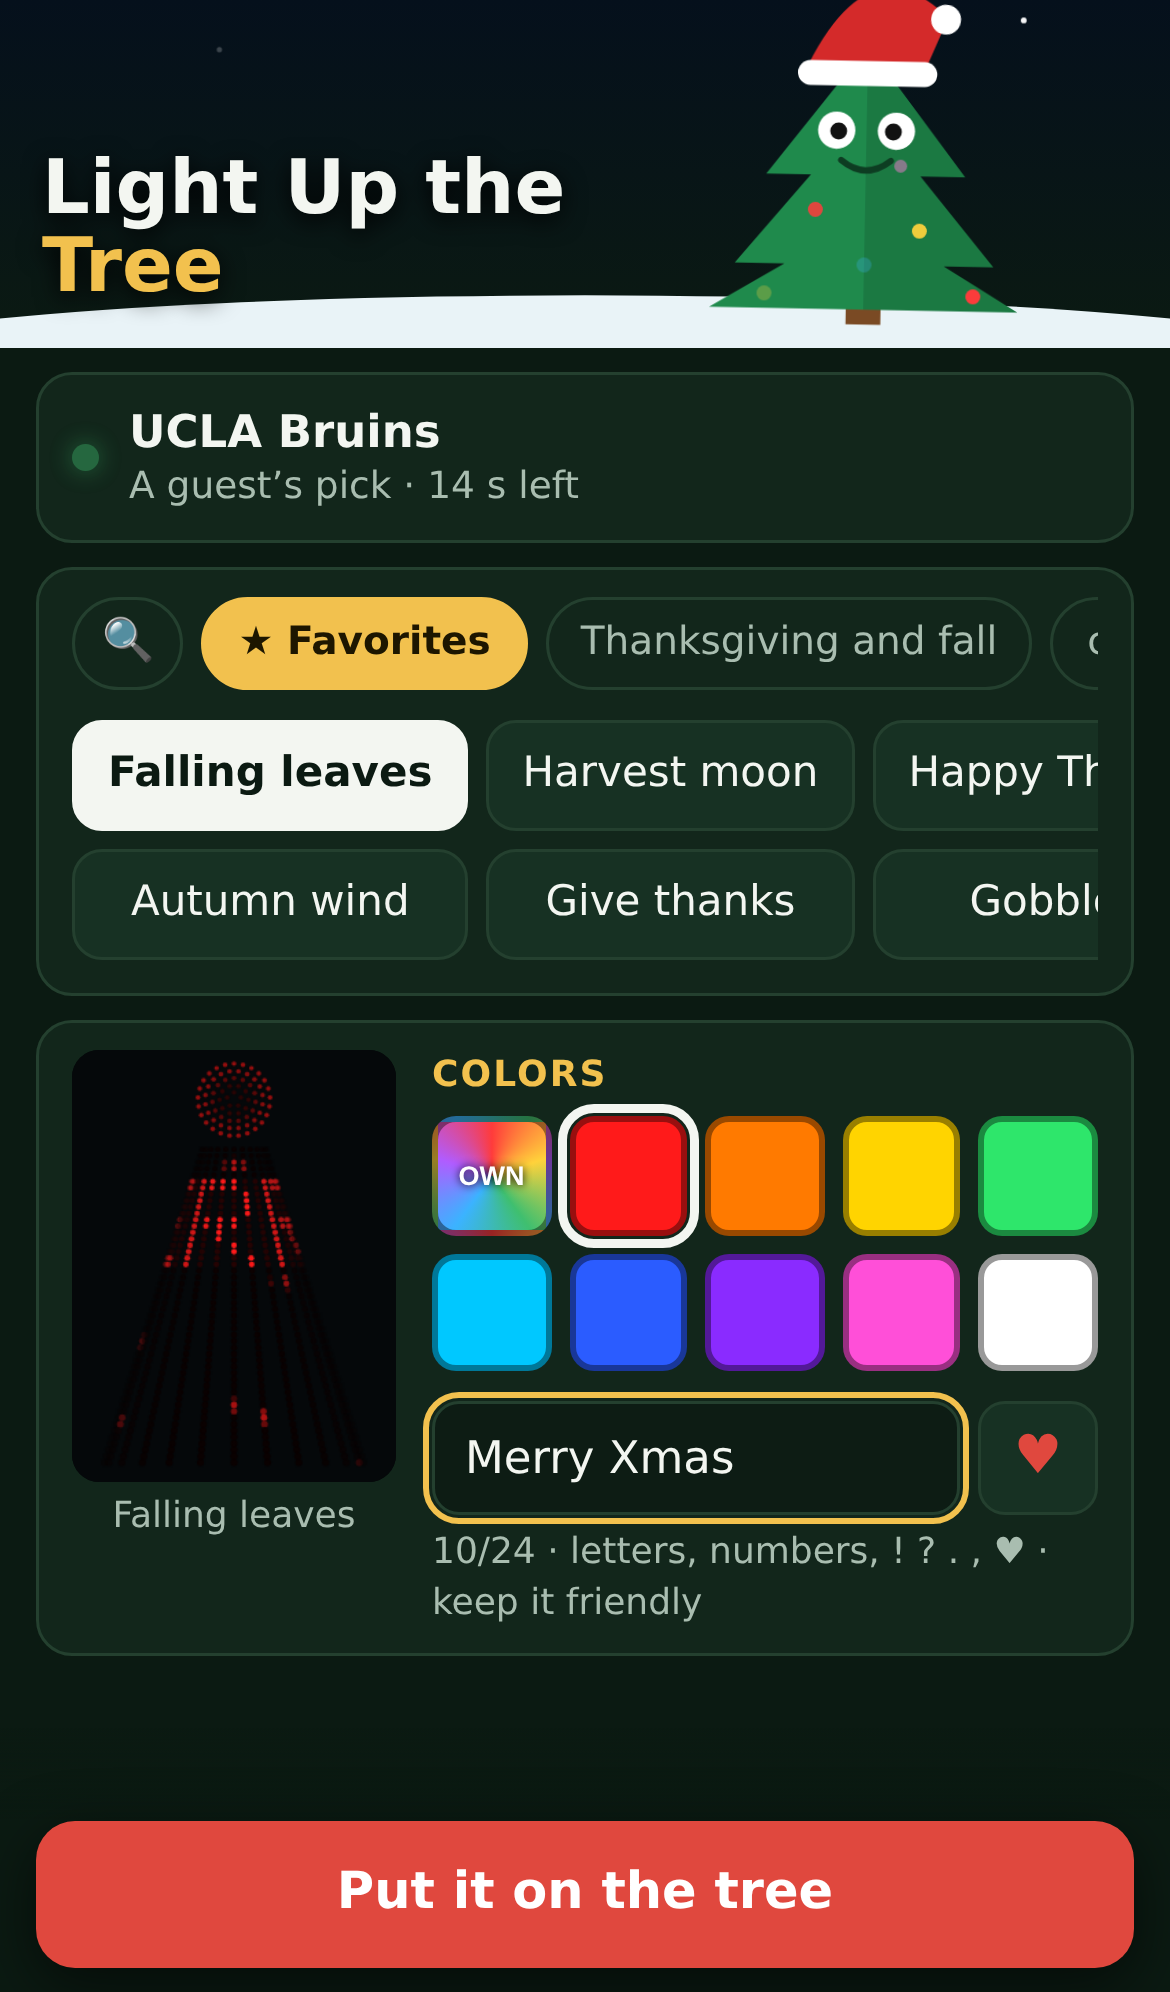
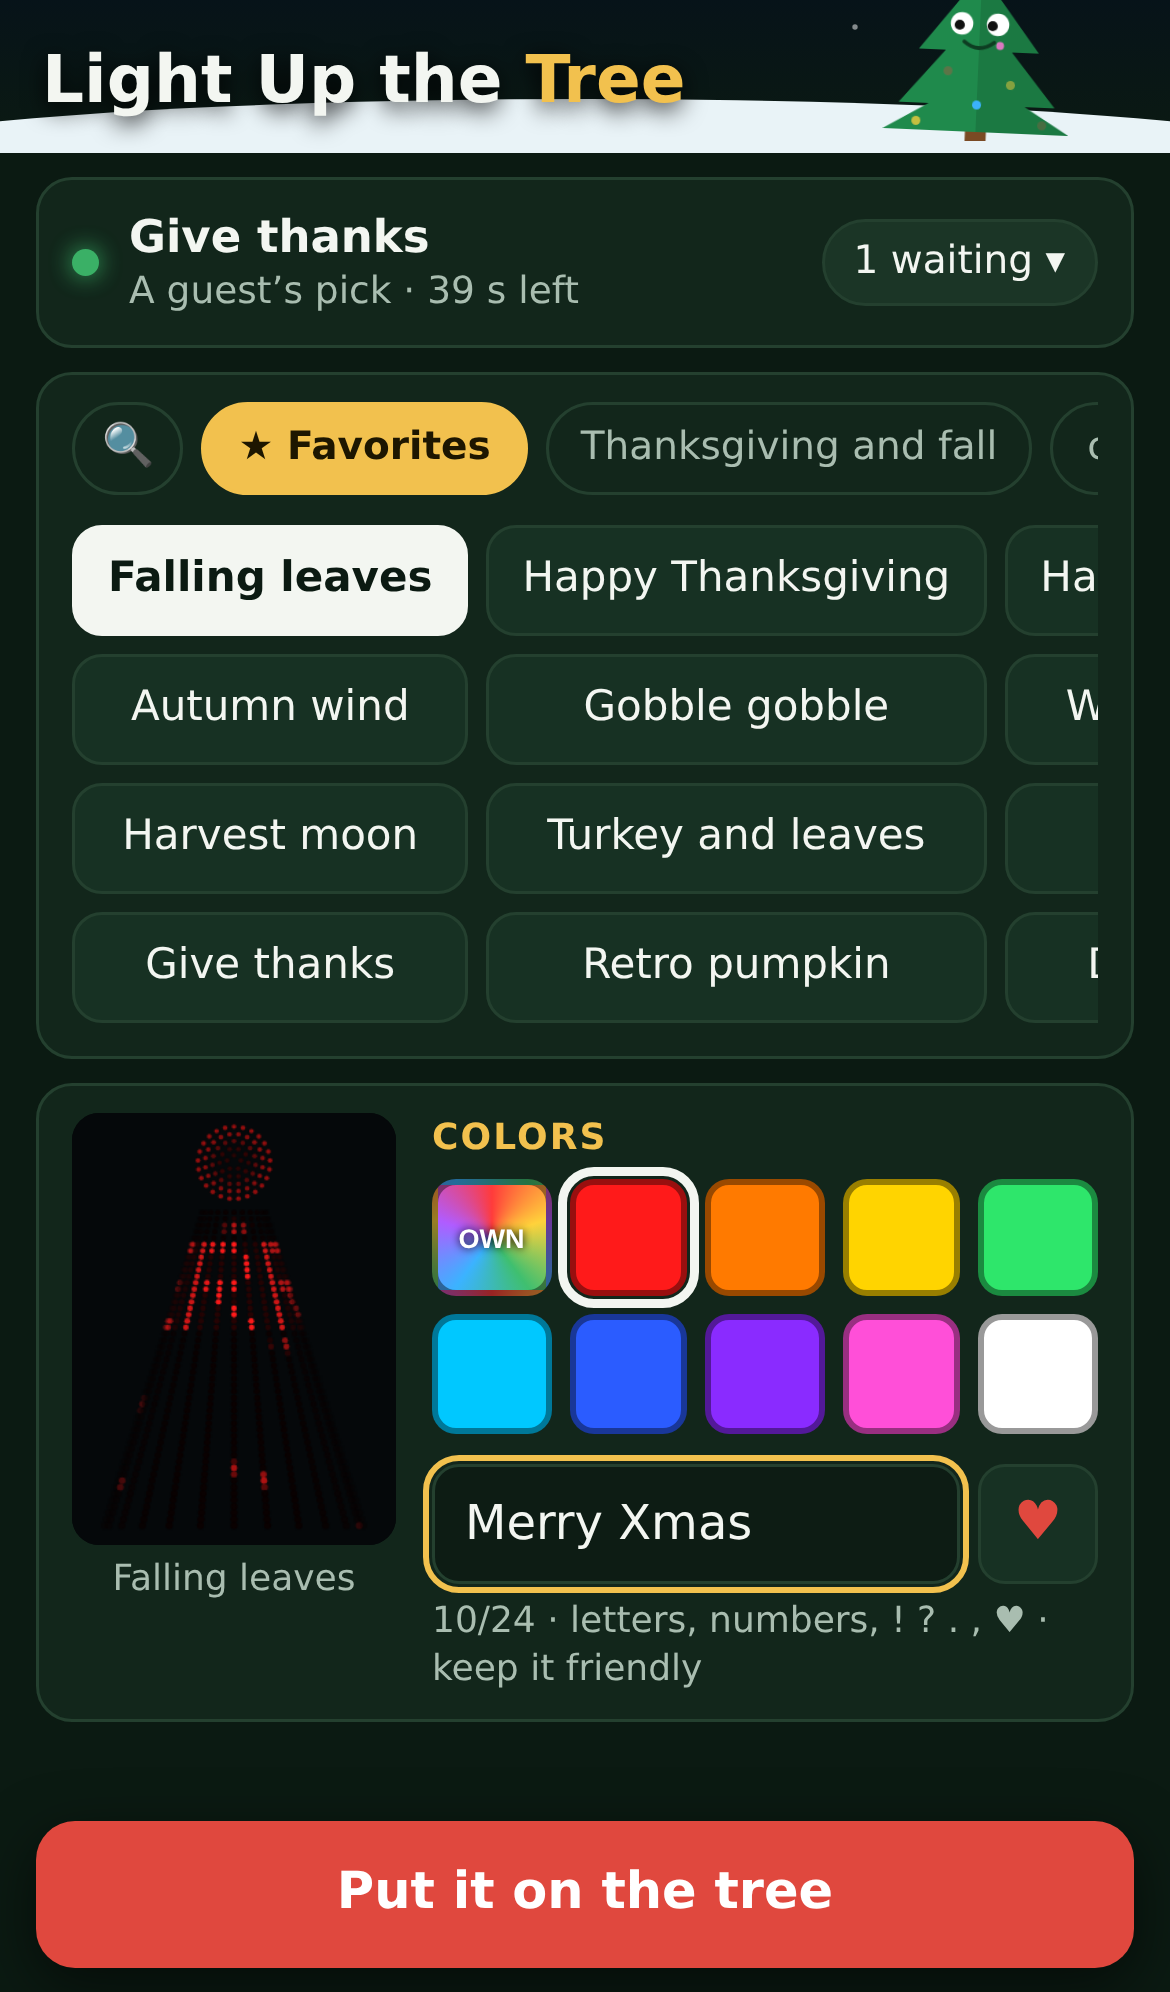
Guest page: designs 4 rows tall; while typing a message the button stops floating and the box scrolls above the keyboard; 16 px inputs so phones don't zoom

diff --git a/tree-show/guestcloud/site/index.html b/tree-show/guestcloud/site/index.html
@@ -42,13 +42,13 @@ main{max-width:560px;margin:0 auto;padding:0 12px}
 .row::-webkit-scrollbar{display:none}
 .cats button{font:inherit;font-size:13px;white-space:nowrap;color:var(--dim);background:none;border:1px solid var(--line);border-radius:999px;padding:5px 11px;flex:none}
 .cats button[aria-pressed=true]{color:#1d1600;background:var(--gold);border-color:var(--gold);font-weight:600}
-.designs{display:grid;grid-auto-flow:column;grid-template-rows:repeat(2,auto);grid-auto-columns:max-content;gap:6px;overflow-x:auto;scrollbar-width:none;margin-top:8px;padding-bottom:2px}
+.designs{display:grid;grid-auto-flow:column;grid-template-rows:repeat(4,auto);grid-auto-columns:max-content;gap:6px;overflow-x:auto;scrollbar-width:none;margin-top:8px;padding-bottom:2px}
 .designs::-webkit-scrollbar{display:none}
-.chip{font:inherit;font-size:14px;color:var(--ink);background:#173123;border:1px solid var(--line);border-radius:10px;padding:8px 11px;white-space:nowrap}
+.chip{font:inherit;font-size:14px;color:var(--ink);background:#173123;border:1px solid var(--line);border-radius:10px;padding:6px 10px;white-space:nowrap}
 .chip[aria-pressed=true]{background:var(--ink);color:#0b1a12;border-color:var(--ink);font-weight:700}
 .findRow{display:flex;gap:6px;align-items:center}.findRow>.row{flex:1;min-width:0}
 .cats .srch{font-size:14px;padding:5px 9px}
-input[type=search],input[type=text]{width:100%;font:inherit;color:var(--ink);background:#0d1c14;border:1px solid var(--line);border-radius:9px;padding:8px 10px;min-width:0}
+input[type=search],input[type=text]{width:100%;font:inherit;font-size:16px;color:var(--ink);background:#0d1c14;border:1px solid var(--line);border-radius:9px;padding:8px 10px;min-width:0}
 input:focus{outline:2px solid var(--gold);outline-offset:1px}
 /* preview beside colors and message */
 .make{display:grid;grid-template-columns:108px minmax(0,1fr);gap:12px;align-items:start}
@@ -69,6 +69,9 @@ canvas{width:108px;height:144px;display:block;border-radius:9px;background:#0508
 .go p.ok{color:#bff0cf}
 .go button{width:100%;font:inherit;font-size:17px;font-weight:700;padding:13px;border:0;border-radius:13px;background:var(--red);color:#fff;box-shadow:0 6px 20px #0008}
 .go button:disabled{background:#4b3a38;color:#c9b4b0}
+/* typing a message: the button stops floating (it would sit on top of the keyboard and the box), the box scrolls into view */
+body.typing{padding-bottom:0}
+body.typing .go{position:static;background:none;padding-top:10px}
 /* ---- the scene: a tree in a Santa hat, and Santa flying by (original cartoon) ---- */
 .star{animation:tw 3s infinite ease-in-out}
 @keyframes tw{50%{opacity:.2}}
@@ -151,7 +154,7 @@ canvas{width:108px;height:144px;display:block;border-radius:9px;background:#0508
   <div class="lbl">Colors</div>
   <div class="pal" id="pal"></div>
   <div class="msgrow"><input type="text" id="msg" maxlength="24" placeholder="Message (optional)" autocomplete="off" autocapitalize="characters" spellcheck="false" aria-label="Message"><button type="button" id="heart" title="Add a heart" aria-label="Add a heart">♥</button></div>
-  <p class="hint"><span id="count">0/24</span> · letters, numbers, ! ? . , ♥ · keep it friendly</p>
+  <p class="hint"><span id="count">0/24</span> · keep it friendly</p>
  </div>
 </div>
 </main>
@@ -285,7 +288,13 @@ $('msg').oninput = function () {
   say(ALLOWED.test(v) ? '' : 'The tree can show letters, numbers and simple punctuation.');
   restartPreview(); setGo();
 };
+// The phone's keyboard: keep the message box in sight above it.
+function boxInView() { $('msg').scrollIntoView({ block: 'center', behavior: 'smooth' }); }
+$('msg').addEventListener('focus', function () { document.body.classList.add('typing'); setTimeout(boxInView, 350); });
+$('msg').addEventListener('blur', function () { setTimeout(function () { if (document.activeElement !== $('msg')) document.body.classList.remove('typing'); }, 150); });
+if (window.visualViewport) visualViewport.addEventListener('resize', function () { if (document.activeElement === $('msg')) boxInView(); });
 $('heart').onclick = function () { var m = $('msg'); if (m.value.length < 24) { m.value += '♥'; m.oninput(); } };
+$('heart').addEventListener('mousedown', function (e) { e.preventDefault(); }); // keep the keyboard up
 function inLine() { return myCount >= PER_GUEST; }
 function setGo() {
   var b = $('go'), open = lastQ && lastQ.open, v = msgVal();
